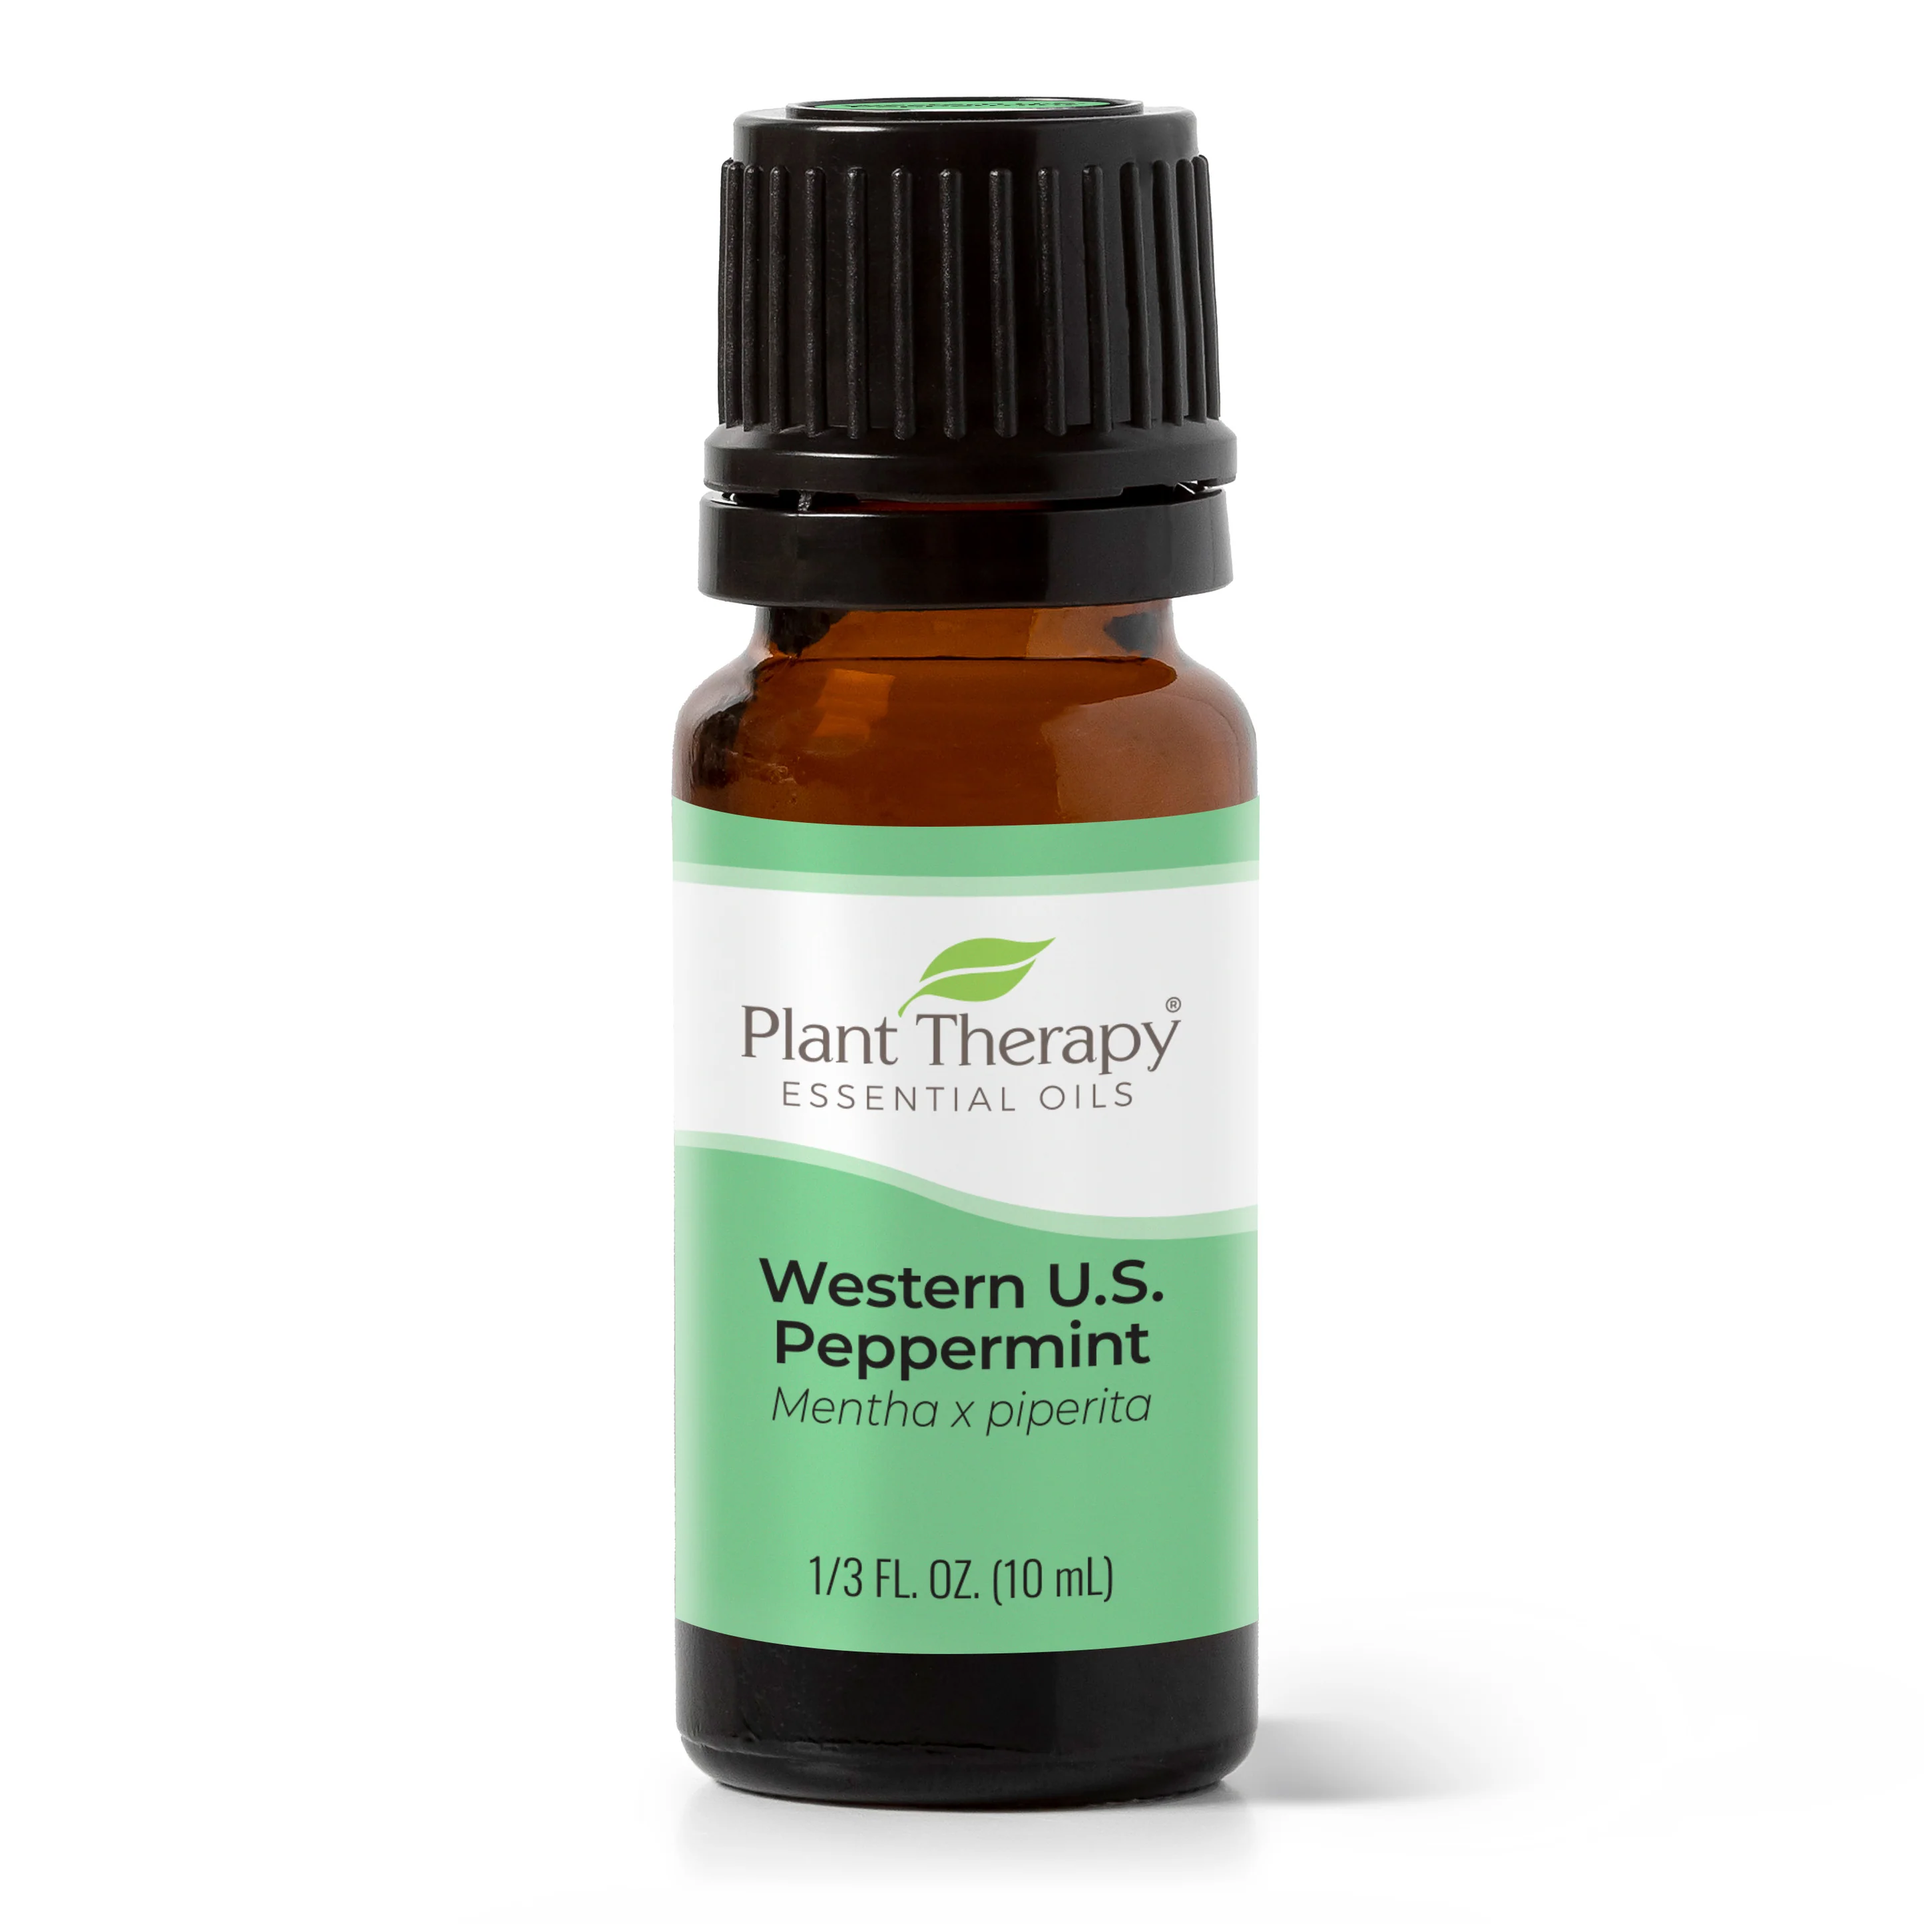
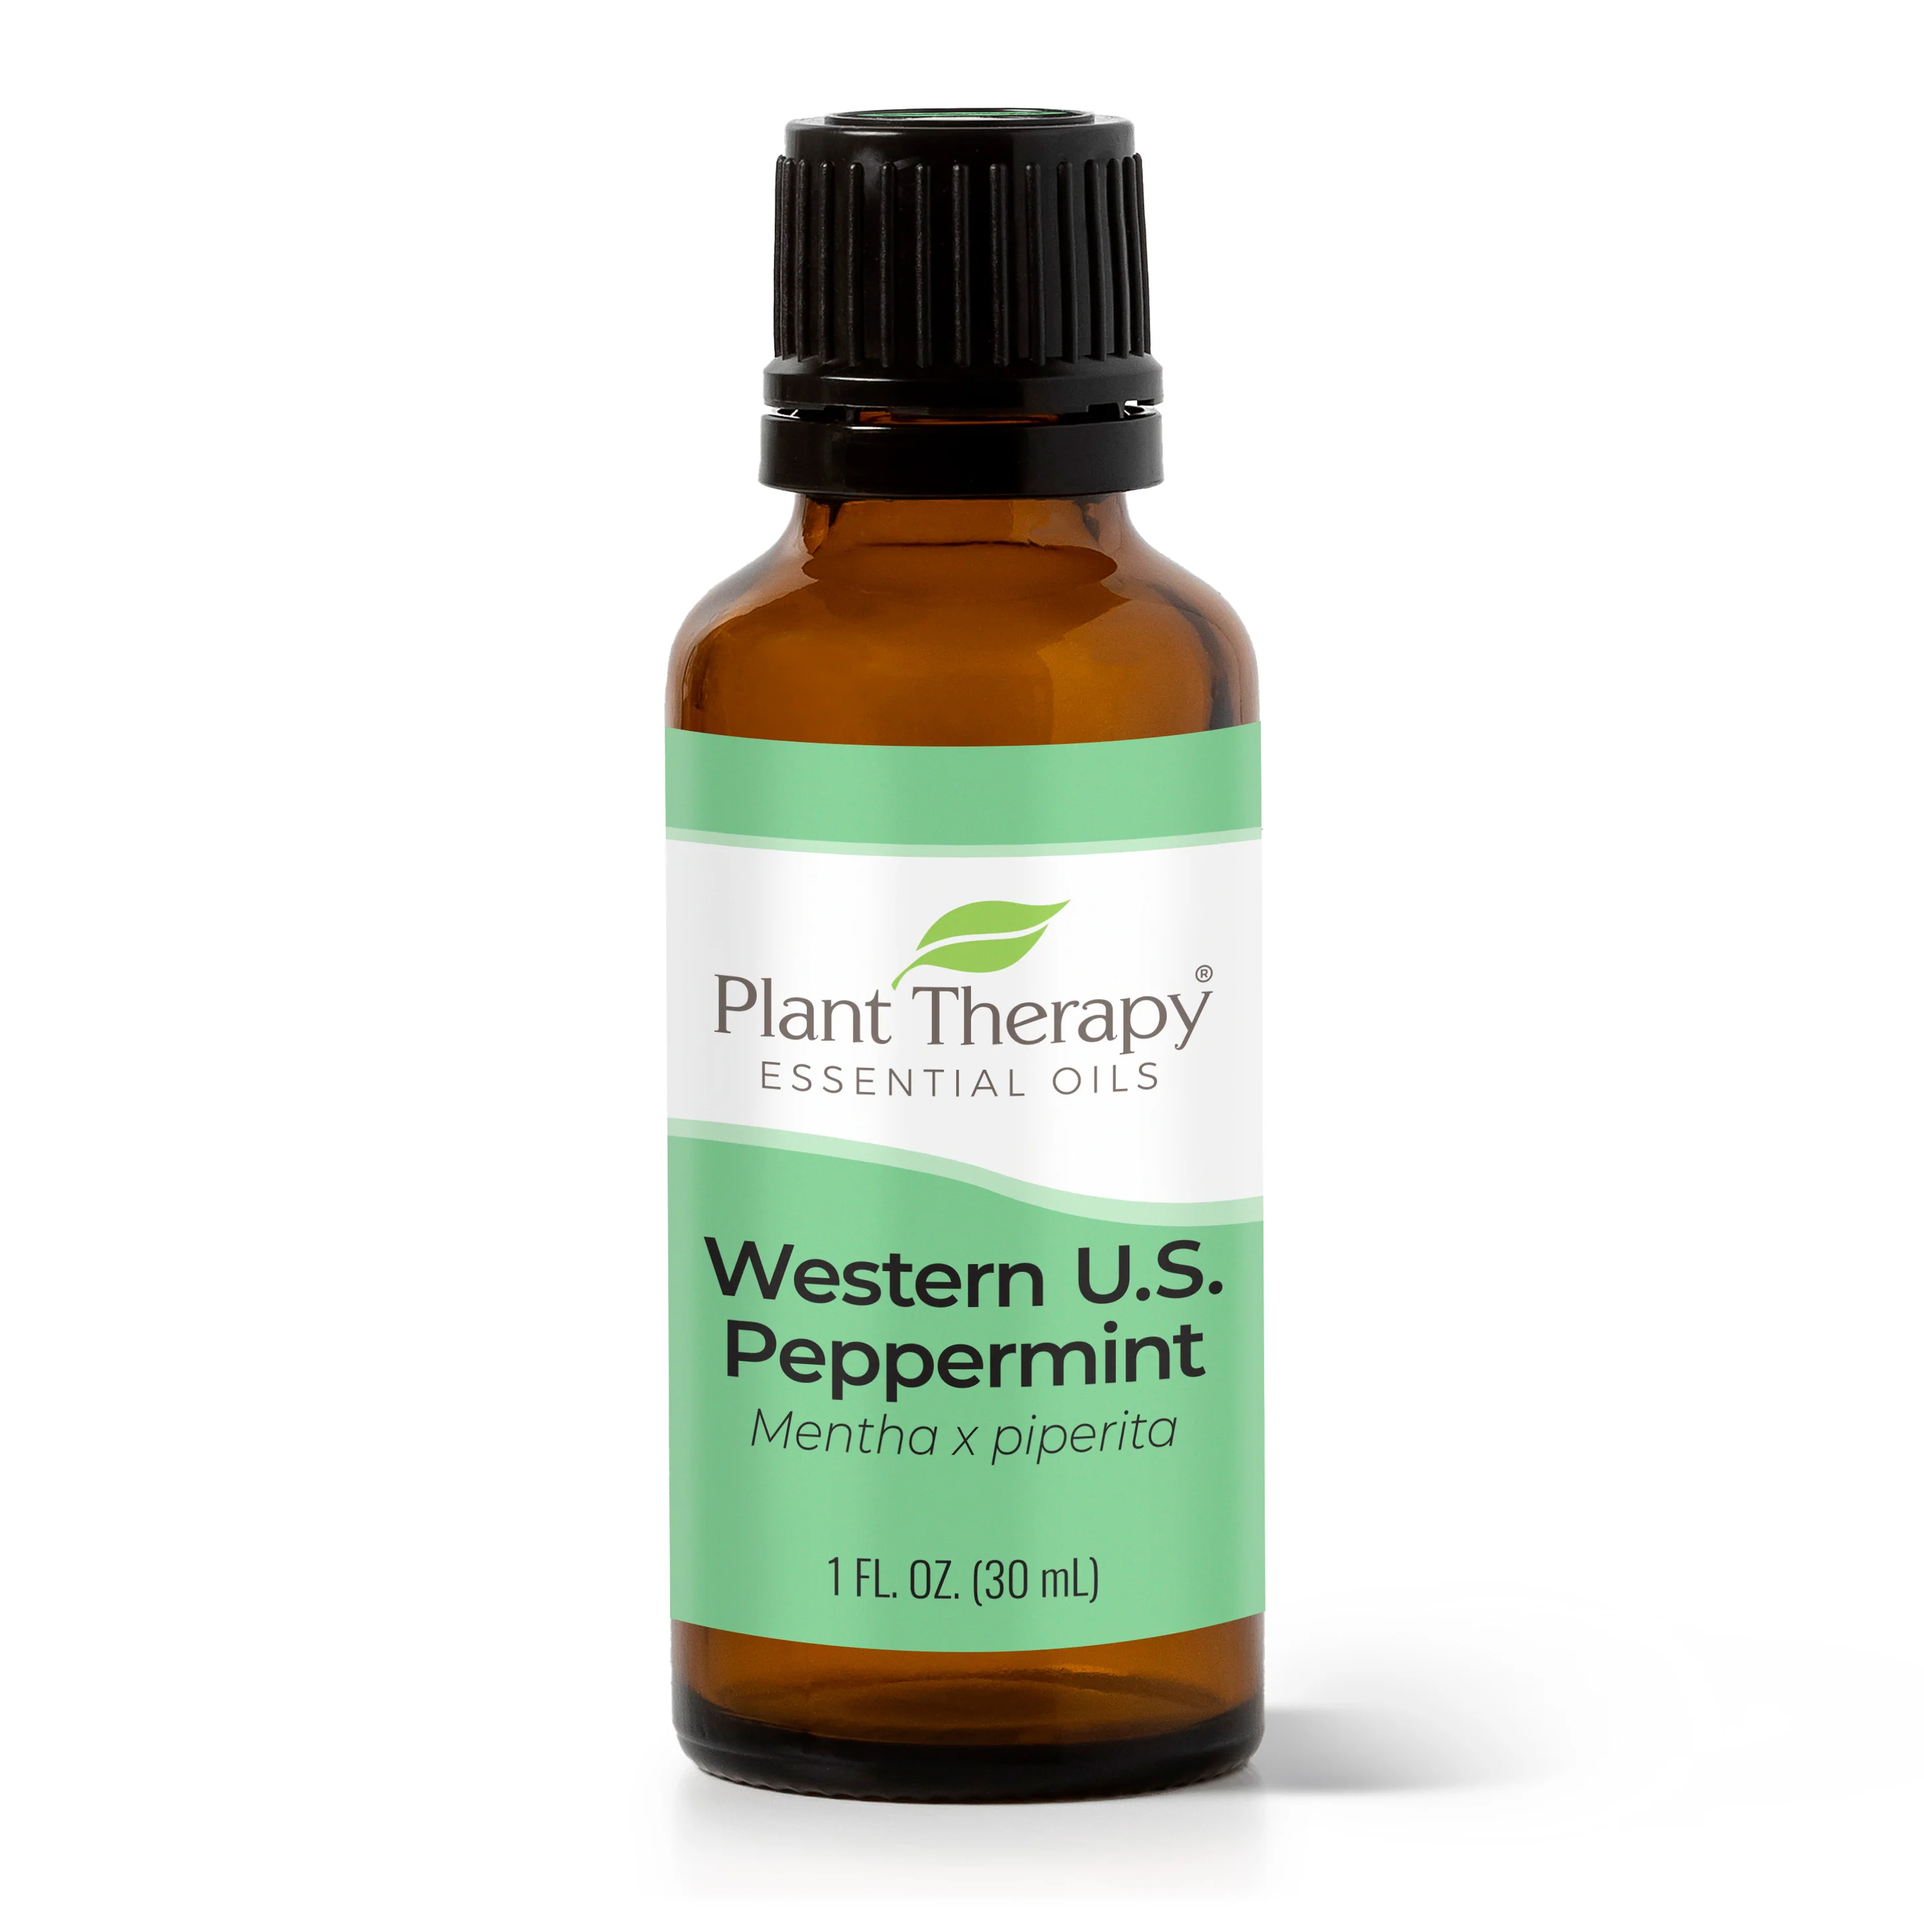
Update RWC Plant Therapy page
Fixed 'Western U.S. Peppermint' size and removed the wording 'Essential Oil'

Changed region(s): [[0.3426, 0.0311, 0.7163, 0.9654]]

diff --git a/plant-therapy.html b/plant-therapy.html
@@ -233,7 +233,7 @@
 												 alt="ear relief essential oil">
 									</div>
 									<div class="content">
-										<h1 class="man">Ear Relief Essential Oil</h1>
+										<h1 class="man">Ear Relief</h1>
 										<div class="price-container">
 											<div class="price price-tag">
 												<h1>$11<sup>99</sup></h1>
@@ -259,7 +259,7 @@
 										<img src="./assets/images/Plant_Therapy/Blends/germ_destroyer_kidsafe.webp" class="blend-oils" alt="germ destroyer essential oil">
 									</div>
 									<div class="content">
-										<h1 class="man">Germ Destroyer Essential Oil</h1>
+										<h1 class="man">Germ Destroyer</h1>
 										<div class="price-container">
 											<div class="price price-tag">
 												<h1>$17<sup>99</sup></h1>
@@ -349,7 +349,7 @@
 												 alt="immune boom essential oil">
 									</div>
 									<div class="content">
-										<h1 class="man">Immune Boom Essential Oil</h1>
+										<h1 class="man">Immune Boom</h1>
 										<div class="price-container">
 											<div class="price price-tag">
 												<h1>$11<sup>99</sup></h1>
@@ -454,7 +454,7 @@
 										<img src="./assets/images/Plant_Therapy/Blends/nighty_night_kidsafe.webp" class="blend-oils" alt="nighty night lavender scented kidsafe essential oil">
 									</div>
 									<div class="content">
-										<h1 class="lavend">Nighty Night Essential Oil</h1>
+										<h1 class="lavend">Nighty Night</h1>
 										<div class="price-container">
 											<div class="price price-tag">
 												<h1>$19<sup>99</sup></h1>
@@ -873,7 +873,7 @@
 									<img src="./assets/images/Plant_Therapy/Singles/Coffee.webp" class="blend-oils" alt="coffee essential oil">
 								</div>
 								<div class="content">
-									<h1 class="man">Coffee Essential Oil</h1>
+									<h1 class="man">Coffee</h1>
 									<div class="price-container">
 										<div class="price price-tag">
 											<h1>$15<sup>99</sup></h1>
@@ -925,11 +925,11 @@
 									<img src="./assets/images/Plant_Therapy/Singles/western_us_peppermint.webp" class="blend-oils" alt="western u.s. peppermint essential oil">
 								</div>
 								<div class="content">
-									<h1 class="mint">Western U.S. Peppermint Essential Oil</h1>
+									<h1 class="mint">Western U.S. Peppermint</h1>
 									<div class="price-container">
 										<div class="price price-tag">
-											<h1>$10<sup>99</sup></h1>
-											<p>/10mL</p>
+											<h1>$16<sup>99</sup></h1>
+											<p>/30mL</p>
 										</div>
 									</div>
 									<div class="plant-description">
